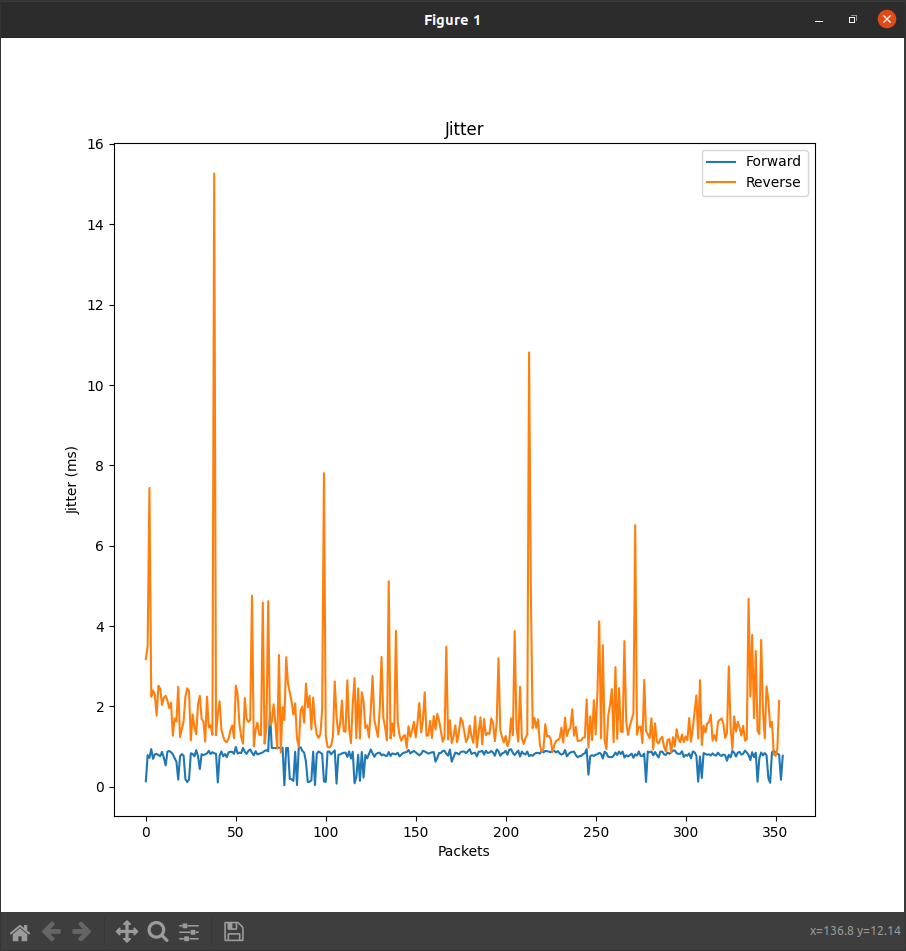
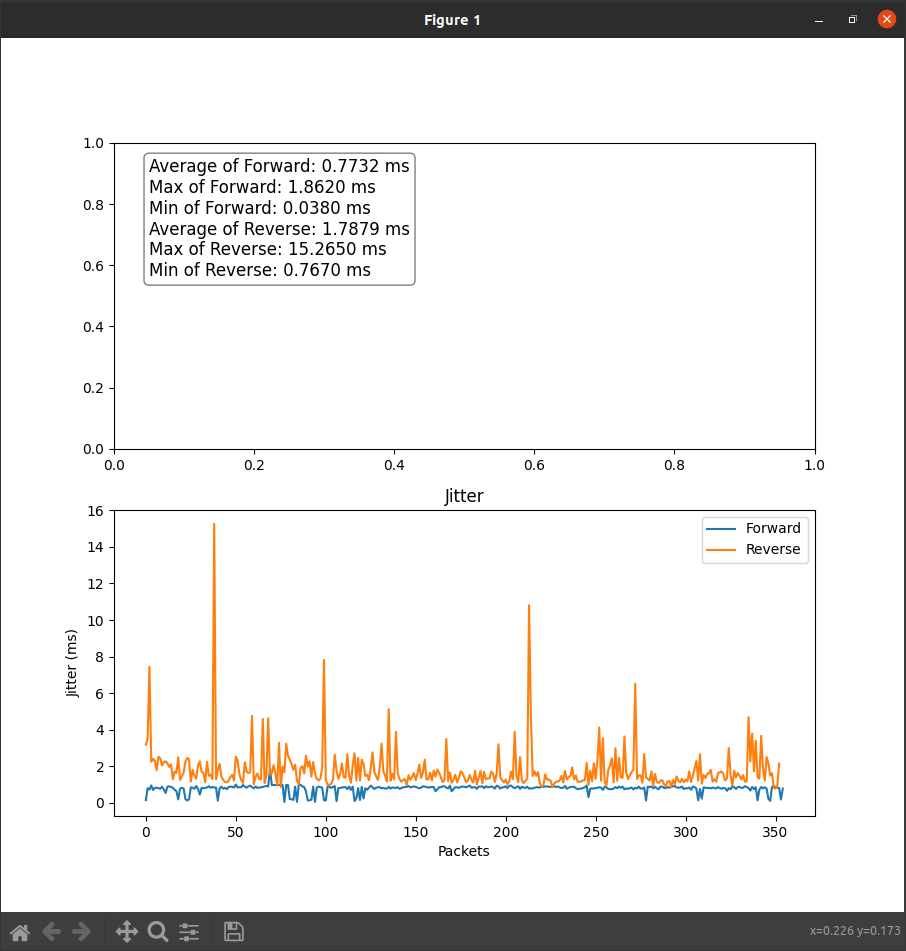
Add additional calculations

diff --git a/parse.py b/parse.py
@@ -58,17 +58,31 @@ for i in range(2, len(data) - 1):
 # plt.plot(delta_forward, 'r', delta_reverse, 'g')
 
 # Plot settings
-plt.plot(delta_forward, label='Forward')  # Set the forward stream data
-plt.plot(delta_reverse, label='Reverse')  # Set the reverse stream data
-plt.xlabel('Packets')
-plt.ylabel('Jitter (ms)')
-plt.title("Jitter")
-plt.legend()
+fig, ax = plt.subplots(2, 1)
+ax[1].plot(delta_forward, label='Forward')
+ax[1].plot(delta_reverse, label='Reverse')
+ax[1].set_xlabel('Packets')
+ax[1].set_ylabel('Jitter (ms)')
+ax[1].set_title('Jitter')
+ax[1].legend()
 
 # I don’t use it because I think it calculates an average of those values 
 # for every second. But I left it here to see if it would come in handy.
 # plt.xlim(0, data[-1][0]) # Change X axes range to 0 - last packet arrival time
 
 # print(*delta_forward, sep='\n')
+
+textstr = '\n'.join((
+   'Average of Forward: {:.4f} ms'.format(avg(delta_forward)),
+   'Max of Forward: {:.4f} ms'.format(max(delta_forward)),
+   'Min of Forward: {:.4f} ms'.format(min(delta_forward)),
+   'Average of Reverse: {:.4f} ms'.format(avg(delta_reverse)),
+   'Max of Reverse: {:.4f} ms'.format(max(delta_reverse)),
+   'Min of Reverse: {:.4f} ms'.format(min(delta_reverse))
+   ))
+
+props = dict(boxstyle='round', facecolor='white', alpha=0.5)
+
+ax[0].text(0.05, 0.95, textstr, transform=ax[0].transAxes, fontsize=12, verticalalignment='top', bbox=props)
 
 plt.show()
